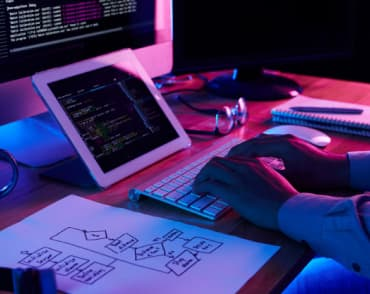
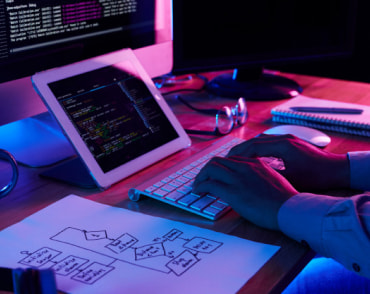
optimaised omg via squoosh 90%

diff --git a/index.html b/index.html
@@ -19,7 +19,7 @@
             <a class="logo link" href="/"><span>Web</span>Studio</a>
             <ul class="nav-list list">
                 <li class="nav-list-item">
-                    <a class="nav-list-link link" href="./index.html">Студія</a>
+                    <a class="nav-list-link link" href="./index.html" target="_blank">Студія</a>
                 </li>
                 <li class="nav-list-item">
                     <a class="nav-list-link link" href="./portfolio.html" target="_blank">Портфоліо</a>
@@ -64,9 +64,9 @@
         <section>
             <h2 class="title-boxes">Чим ми займаємося</h2>
             <ul class="list">
-                <li><img src="./images/box1.jpg " alt="Працівник вводить код " width="370" height="294"></li>
-                <li><img src="./images/box2.jpg " alt="Працівник робить дизайн мобільного додатку " width="370" height="294"></li>
-                <li><img src="./images/box3.jpg " alt="Працівник вибирає колір на планшеті " width="370" height="294"></li>
+                <li><img src="./images/box1.jpg " alt="Працівник вводить код" width="370" height="294"></li>
+                <li><img src="./images/box2.jpg " alt="Працівник робить дизайн мобільного додатку" width="370" height="294"></li>
+                <li><img src="./images/box3.jpg " alt="Працівник вибирає колір на планшеті" width="370" height="294"></li>
             </ul>
         </section>
         <section>

diff --git a/css/styles.css b/css/styles.css
@@ -7,6 +7,7 @@
     --text-color-description: #757575;
     --text-color-maintitle: #FFF;
     --text-color-contacts: rgba(255, 255, 255, 0.60);
+    --color-active-btn: #188CE8;
 }
 
 
@@ -112,7 +113,7 @@ body {
 
 .modal-btn:hover,
 .modal-btn:focus {
-    background: #188CE8;
+    background: var(--color-active-btn);
 }
 
 
